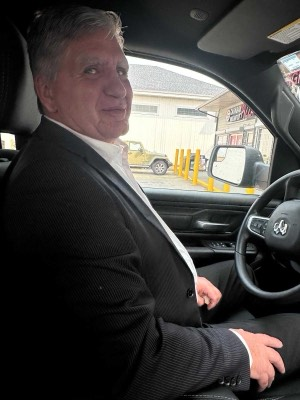
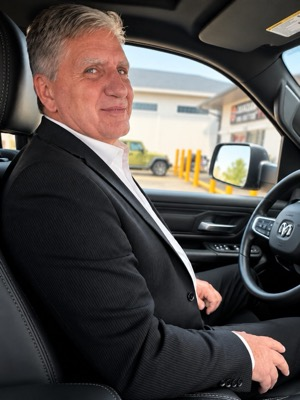
Replace Barry Porter's portrait with a clearer shot
The previous portrait was taken from inside a machine in low light, which
left his face shadowed and turned him into a silhouette. The new photo is
lit properly, shows his face clearly, and has him looking at camera.

Re-encoded to the same dimensions as before (600x800 and 300x400) so no
layout or intrinsic-size changes were needed.

Alt text updated on both pages: the new photo is taken in a truck, not in
a machine cab.

diff --git a/site/index.html b/site/index.html
@@ -722,7 +722,7 @@
   <div class="wrap">
     <div class="owner">
       <div class="owner__media rv">
-        <img src="/assets/img/owner.jpg" alt="Portrait of the owner-operator of Covenant Earth Works, seated in the cab of his machine on site" width="600" height="800" loading="lazy" srcset="/assets/img/owner-sm.jpg 300w, /assets/img/owner.jpg 600w" sizes="(max-width: 1080px) 100vw, 40vw">
+        <img src="/assets/img/owner.jpg" alt="Barry Porter, owner-operator of Covenant Earth Works, seated in the cab of his truck" width="600" height="800" loading="lazy" srcset="/assets/img/owner-sm.jpg 300w, /assets/img/owner.jpg 600w" sizes="(max-width: 1080px) 100vw, 40vw">
       </div>
       <div class="rv rv-d1">
         <p class="eyebrow">Owner-Operated</p>

diff --git a/site/about/index.html b/site/about/index.html
@@ -105,7 +105,7 @@
   <div class="wrap">
     <div class="owner">
       <div class="owner__media rv">
-        <img src="/assets/img/owner.jpg" alt="Barry Porter, owner-operator of Covenant Earth Works, seated in the cab of his machine on site" width="600" height="800" loading="lazy" srcset="/assets/img/owner-sm.jpg 300w, /assets/img/owner.jpg 600w" sizes="(max-width: 1080px) 100vw, 40vw">
+        <img src="/assets/img/owner.jpg" alt="Barry Porter, owner-operator of Covenant Earth Works, seated in the cab of his truck" width="600" height="800" loading="lazy" srcset="/assets/img/owner-sm.jpg 300w, /assets/img/owner.jpg 600w" sizes="(max-width: 1080px) 100vw, 40vw">
       </div>
       <div class="rv rv-d1">
         <p class="eyebrow">The Operators</p>
